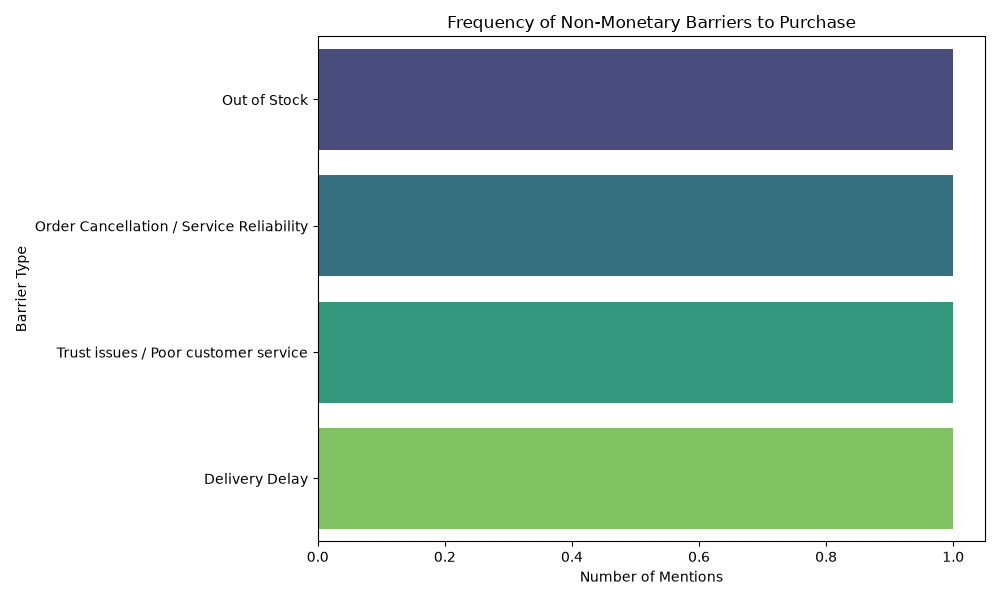
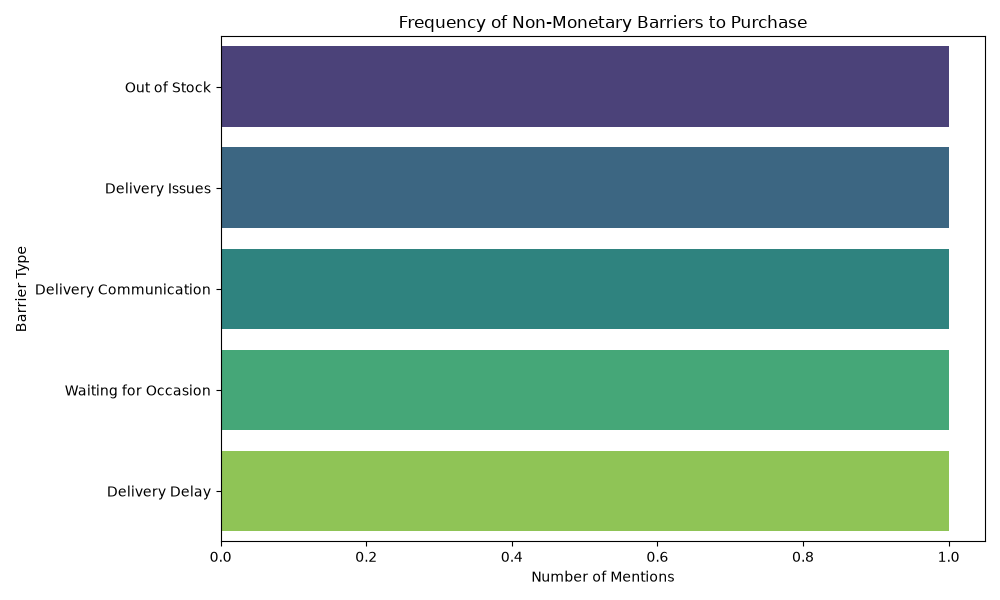
docs: update edge-cases to reflect behavioral analysis instead of sentiment analysis

Changed region(s): [[0.031, 0.03, 0.961, 0.99]]

diff --git a/src/llm_processor.py b/src/llm_processor.py
@@ -15,9 +15,10 @@ def get_groq_client():
 def build_prompt(feedback_text):
     return f"""You are a Growth Product Manager at a fashion e-commerce company (like Myntra).
 Your goal is to increase the percentage of users who purchase items from their wishlist within 30 days.
-Crucial Constraint: You CANNOT oYour workflow should go beyond summarizing reviews or performing sentiment analysis.
+Crucial Constraint: You CANNOT offer monetary incentives (discounts, coupons, cashbacks).
 
-It should enable you to identify, quantify where possible, and compare potential opportunity areas that could influence the stated business metric.ffer monetary incentives (discounts, coupons, cashbacks).
+Your workflow should go beyond summarizing reviews or performing sentiment analysis.
+It should enable you to identify, quantify where possible, and compare potential opportunity areas that could influence the stated business metric.
 
 Analyze the following user feedback and extract behavioral insights.
 

diff --git a/src/data_cleaner.py b/src/data_cleaner.py
@@ -110,9 +110,14 @@ def main():
     print(f"Rows after strict keyword filtering: {len(df_filtered)}")
     
     # Save to processed
-    output_file = os.path.join(processed_dir, "cleaned_feedback.csv")
-    df_filtered.to_csv(output_file, index=False)
-    print(f"Successfully saved cleaned data to {output_file}")
+    output_csv = os.path.join(processed_dir, "cleaned_feedback.csv")
+    output_json = os.path.join(processed_dir, "normalized_reviews.json")
+    
+    df_filtered.to_csv(output_csv, index=False)
+    # Export to JSON format for LLM Phase
+    df_filtered.to_json(output_json, orient='records', indent=4)
+    
+    print(f"Successfully saved cleaned data to {output_csv} and {output_json}")
 
 if __name__ == "__main__":
     main()

diff --git a/docs/edge-case.md b/docs/edge-case.md
@@ -1,6 +1,6 @@
-# Edge Cases and Corner Scenarios: Myntra Sentiment Analysis
+# Edge Cases and Corner Scenarios: Wishlist Discovery Engine
 
-When building a real-world data pipeline and utilizing Large Language Models (LLMs), several edge cases can compromise the stability of the system or the accuracy of the insights. This document outlines the potential edge cases for the Myntra sentiment analysis project and proposed handling strategies.
+When building a real-world data pipeline and utilizing Large Language Models (LLMs), several edge cases can compromise the stability of the system or the accuracy of the insights. This document outlines the potential edge cases for the Myntra Wishlist Discovery Engine and proposed handling strategies.
 
 ## 1. Data Ingestion (Scraping & APIs)
 
@@ -15,7 +15,7 @@ When building a real-world data pipeline and utilizing Large Language Models (LL
 - **Scenario:** A YouTube video or comment is deleted between the time it is scraped and processed, or a Play Store review contains only a star rating with no text.
 - **Handling Strategy:** 
   - Ensure the scraper explicitly checks for `None`, `[deleted]`, or empty string text bodies.
-  - Filter out text-less reviews during the initial Pandas preprocessing phase; star ratings without text cannot undergo LLM sentiment analysis.
+  - Filter out text-less reviews during the initial Pandas preprocessing phase; star ratings without text cannot undergo behavioral analysis.
 
 ## 2. Data Processing & Linguistic Variations
 
@@ -26,9 +26,9 @@ When building a real-world data pipeline and utilizing Large Language Models (LL
   - If a review is entirely in a regional script, either filter it out or use a lightweight translation library before sending it to the LLM.
 
 ### 2.2. Sarcasm and Ambiguity
-- **Scenario:** A user writes, "Great job delivering a torn shirt after 2 weeks. Best app ever." Traditional keyword sentiment analysis would label this as positive.
+- **Scenario:** A user writes, "Great job delivering a torn shirt after 2 weeks. Best app ever." Traditional sentiment analysis would label this as positive, missing the actual conversion barrier.
 - **Handling Strategy:** 
-  - Rely on the advanced contextual understanding of the Groq LLM. The prompt must explicitly instruct the LLM to identify sarcasm and label the actual underlying sentiment (Negative) and category (Product Quality/Logistics).
+  - Rely on the advanced contextual understanding of the Groq LLM. The prompt must explicitly instruct the LLM to identify sarcasm and label the actual underlying `non_monetary_barrier` (e.g., "Delivery Delay / Trust Deficit").
 
 ### 2.3. Spam, Bot Reviews, and Promos
 - **Scenario:** Reviews containing promotional links, repeated characters ("wooooooow"), or bot spam.
@@ -45,7 +45,7 @@ When building a real-world data pipeline and utilizing Large Language Models (LL
 ## 3. LLM Integration (Groq API)
 
 ### 3.1. Malformed JSON Responses
-- **Scenario:** The Groq LLM is instructed to return a strict JSON format (e.g., `{"sentiment": "negative", "category": "UI"}`), but instead it returns conversational text before the JSON, or a malformed JSON string (e.g., missing quotes).
+- **Scenario:** The Groq LLM is instructed to return a strict JSON format (e.g., `{"non_monetary_barrier": "Stock Uncertainty"}`), but instead it returns conversational text before the JSON, or a malformed JSON string (e.g., missing quotes).
 - **Handling Strategy:**
   - Use strict system prompts (e.g., "Return ONLY valid JSON. Do not include introductory text.").
   - Use Python's `json.loads()` inside a `try-except` block. If parsing fails, use Regex to extract the JSON payload from the text, or fallback to labeling the review as "Uncategorized".
